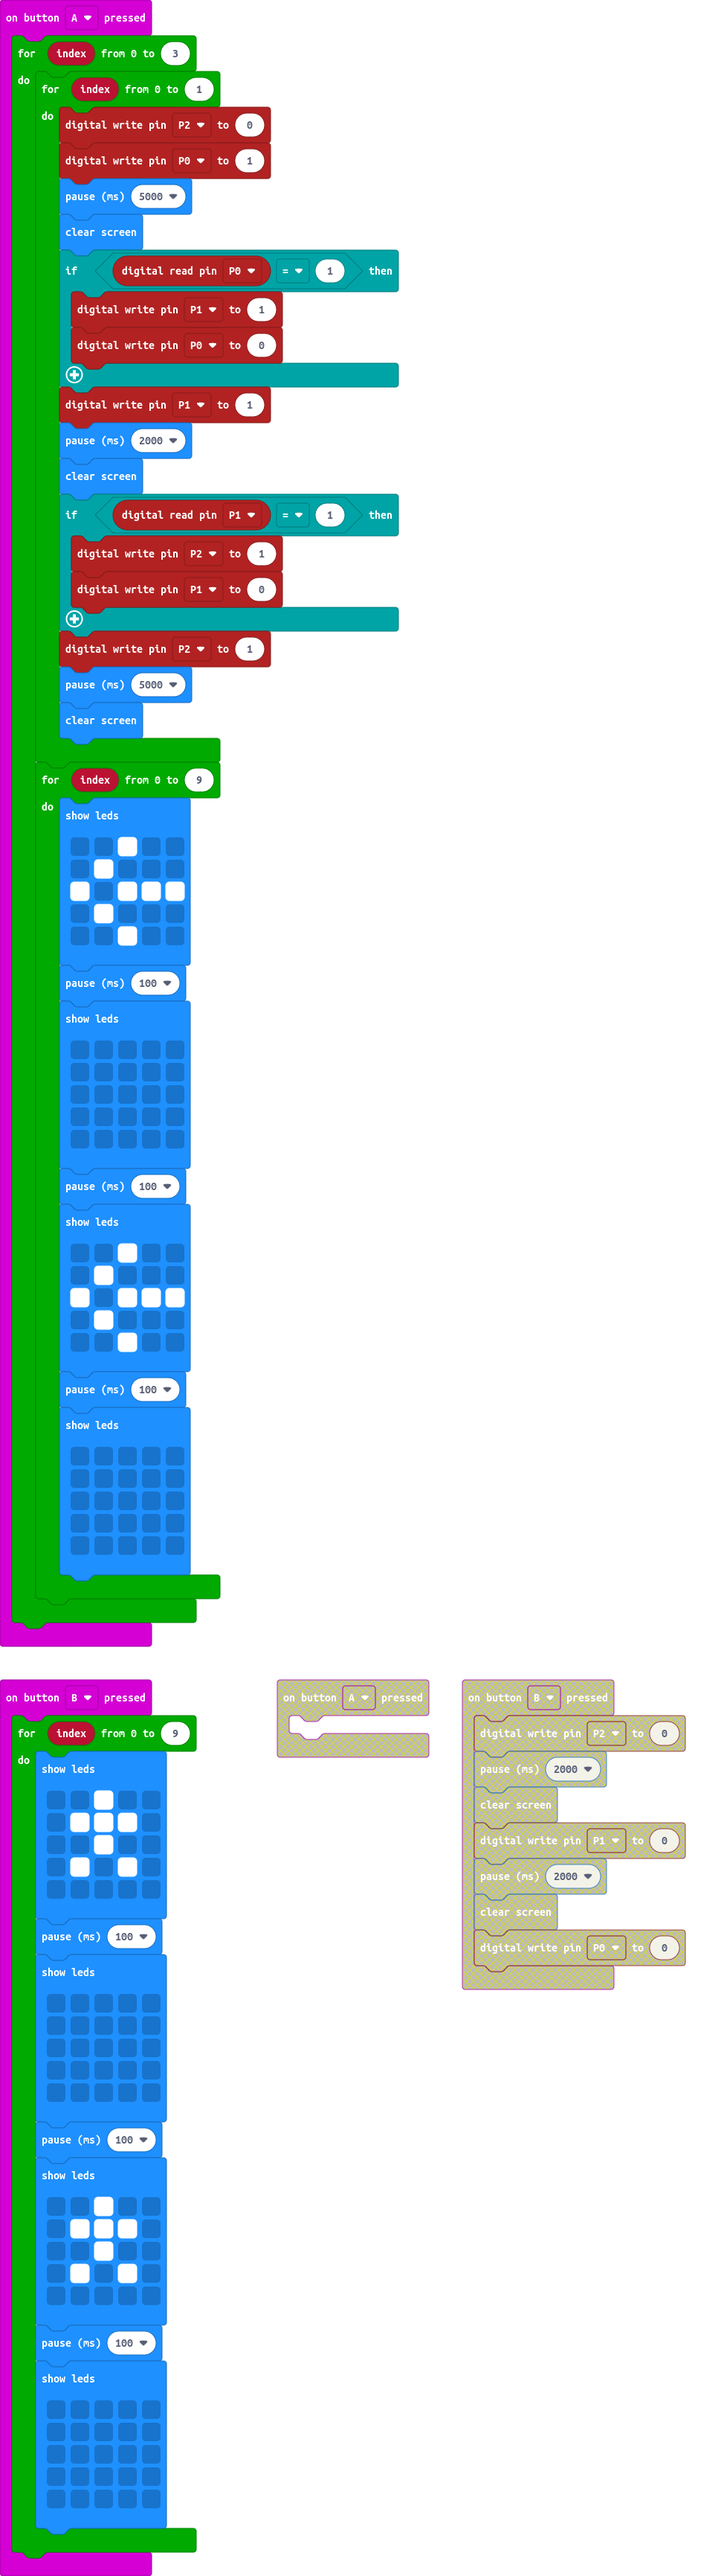
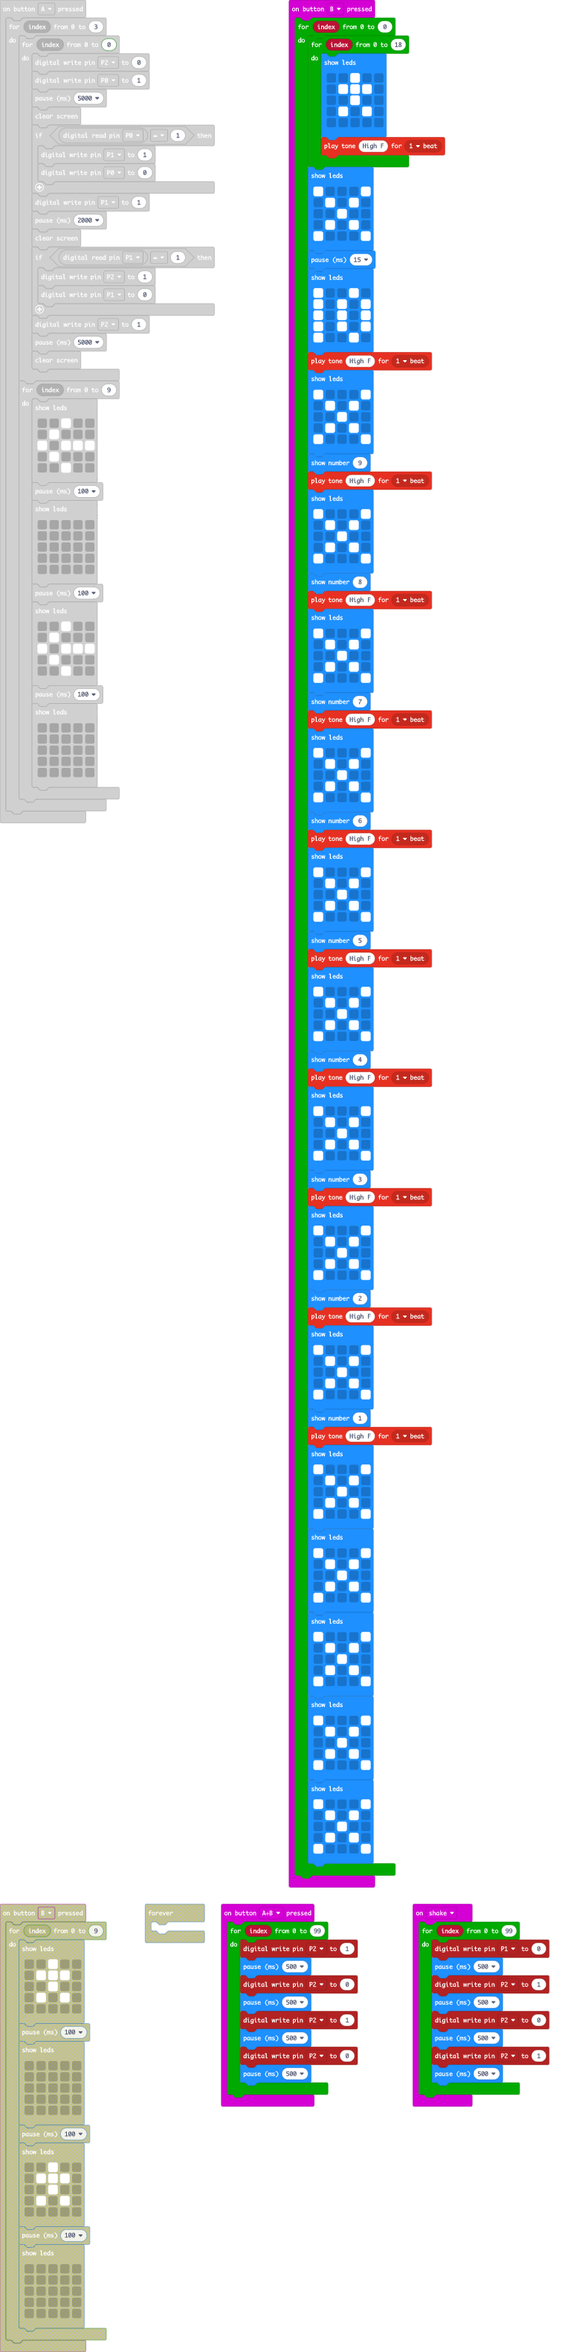
Update main.blocks, main.ts

diff --git a/main.ts b/main.ts
@@ -1,6 +1,6 @@
 input.onButtonPressed(Button.A, function () {
     for (let index = 0; index <= 3; index++) {
-        for (let index = 0; index <= 1; index++) {
+        for (let index = 0; index <= 0; index++) {
             pins.digitalWritePin(DigitalPin.P2, 0)
             pins.digitalWritePin(DigitalPin.P0, 1)
             basic.pause(5000)
@@ -55,41 +55,173 @@ input.onButtonPressed(Button.A, function () {
         }
     }
 })
+input.onButtonPressed(Button.AB, function () {
+    for (let index = 0; index <= 99; index++) {
+        pins.digitalWritePin(DigitalPin.P2, 1)
+        basic.pause(500)
+        pins.digitalWritePin(DigitalPin.P2, 0)
+        basic.pause(500)
+        pins.digitalWritePin(DigitalPin.P2, 1)
+        basic.pause(500)
+        pins.digitalWritePin(DigitalPin.P2, 0)
+        basic.pause(500)
+    }
+})
 input.onButtonPressed(Button.B, function () {
-    for (let index = 0; index <= 9; index++) {
+    for (let index = 0; index <= 0; index++) {
+        for (let index = 0; index <= 18; index++) {
+            basic.showLeds(`
+                . . # . .
+                . # # # .
+                . . # . .
+                . # . # .
+                . . . . .
+                `)
+            music.playTone(698, music.beat(BeatFraction.Whole))
+        }
         basic.showLeds(`
-            . . # . .
-            . # # # .
+            # . . . #
+            . # . # .
             . . # . .
             . # . # .
-            . . . . .
+            # . . . #
             `)
-        basic.pause(100)
+        basic.pause(15)
         basic.showLeds(`
-            . . . . .
-            . . . . .
-            . . . . .
-            . . . . .
-            . . . . .
+            # . . # .
+            # . # . #
+            # . # . #
+            # . # . #
+            # . . # .
             `)
-        basic.pause(100)
+        music.playTone(698, music.beat(BeatFraction.Whole))
         basic.showLeds(`
-            . . # . .
-            . # # # .
+            # . . . #
+            . # . # .
             . . # . .
             . # . # .
-            . . . . .
+            # . . . #
             `)
-        basic.pause(100)
+        basic.showNumber(9)
+        music.playTone(698, music.beat(BeatFraction.Whole))
         basic.showLeds(`
-            . . . . .
-            . . . . .
-            . . . . .
-            . . . . .
-            . . . . .
+            # . . . #
+            . # . # .
+            . . # . .
+            . # . # .
+            # . . . #
+            `)
+        basic.showNumber(8)
+        music.playTone(698, music.beat(BeatFraction.Whole))
+        basic.showLeds(`
+            # . . . #
+            . # . # .
+            . . # . .
+            . # . # .
+            # . . . #
+            `)
+        basic.showNumber(7)
+        music.playTone(698, music.beat(BeatFraction.Whole))
+        basic.showLeds(`
+            # . . . #
+            . # . # .
+            . . # . .
+            . # . # .
+            # . . . #
+            `)
+        basic.showNumber(6)
+        music.playTone(698, music.beat(BeatFraction.Whole))
+        basic.showLeds(`
+            # . . . #
+            . # . # .
+            . . # . .
+            . # . # .
+            # . . . #
+            `)
+        basic.showNumber(5)
+        music.playTone(698, music.beat(BeatFraction.Whole))
+        basic.showLeds(`
+            # . . . #
+            . # . # .
+            . . # . .
+            . # . # .
+            # . . . #
+            `)
+        basic.showNumber(4)
+        music.playTone(698, music.beat(BeatFraction.Whole))
+        basic.showLeds(`
+            # . . . #
+            . # . # .
+            . . # . .
+            . # . # .
+            # . . . #
+            `)
+        basic.showNumber(3)
+        music.playTone(698, music.beat(BeatFraction.Whole))
+        basic.showLeds(`
+            # . . . #
+            . # . # .
+            . . # . .
+            . # . # .
+            # . . . #
+            `)
+        basic.showNumber(2)
+        music.playTone(698, music.beat(BeatFraction.Whole))
+        basic.showLeds(`
+            # . . . #
+            . # . # .
+            . . # . .
+            . # . # .
+            # . . . #
+            `)
+        basic.showNumber(1)
+        music.playTone(698, music.beat(BeatFraction.Whole))
+        basic.showLeds(`
+            # . . . #
+            . # . # .
+            . . # . .
+            . # . # .
+            # . . . #
+            `)
+        basic.showLeds(`
+            # . . . #
+            . # . # .
+            . . # . .
+            . # . # .
+            # . . . #
+            `)
+        basic.showLeds(`
+            # . . . #
+            . # . # .
+            . . # . .
+            . # . # .
+            # . . . #
+            `)
+        basic.showLeds(`
+            # . . . #
+            . # . # .
+            . . # . .
+            . # . # .
+            # . . . #
+            `)
+        basic.showLeds(`
+            # . . . #
+            . # . # .
+            . . # . .
+            . # . # .
+            # . . . #
             `)
     }
 })
-basic.forever(function () {
-	
+input.onGesture(Gesture.Shake, function () {
+    for (let index = 0; index <= 99; index++) {
+        pins.digitalWritePin(DigitalPin.P1, 0)
+        basic.pause(500)
+        pins.digitalWritePin(DigitalPin.P2, 1)
+        basic.pause(500)
+        pins.digitalWritePin(DigitalPin.P2, 0)
+        basic.pause(500)
+        pins.digitalWritePin(DigitalPin.P2, 1)
+        basic.pause(500)
+    }
 })
